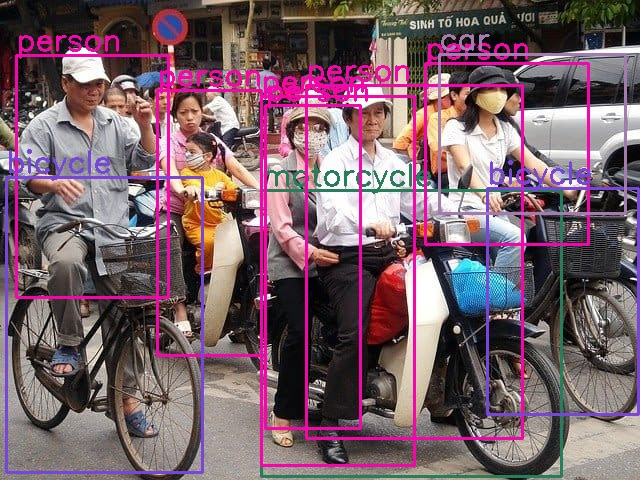
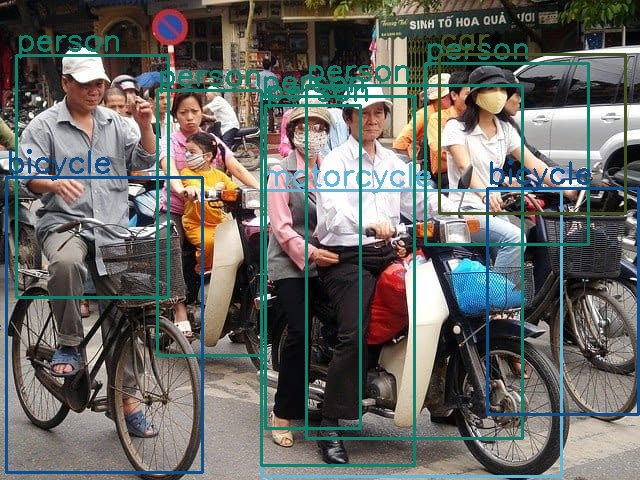
Object detection on video simple tests

Changed region(s): [[0.0, 0.0625, 1.0, 1.0]]

diff --git a/backend/model/object_detection_video.py b/backend/model/object_detection_video.py
@@ -1,0 +1,68 @@
+import cv2
+import time
+import numpy as np
+
+with open ('./MobileNetSSD/object_detection_classes_coco.txt', 'r') as f:
+    class_names = f.read().split('\n')
+
+COLORS = np.random.uniform(0, 255, size=(len(class_names), 3))
+
+model = cv2.dnn.readNet('./MobileNetSSD/frozen_inference_graph.pb', './MobileNetSSD/ssd_mobilenet_v2_coco_2018_03_29.pbtxt.txt', 'TensorFlow')
+
+cap = cv2.VideoCapture(0)
+
+frame_width = int(cap.get(3))
+frame_height = int(cap.get(4))
+
+out = cv2.VideoWriter('video_result.mp4', cv2.VideoWriter_fourcc(*'mp4v'), 30, (frame_width, frame_height))
+
+# detect objects in each frame of the video
+while cap.isOpened():
+   ret, frame = cap.read()
+   if ret:
+       image = frame
+       image_height, image_width, _ = image.shape
+       # create blob from image
+       blob = cv2.dnn.blobFromImage(image=image, size=(300, 300), mean=(104, 117, 123), swapRB=True)
+       # start time to calculate FPS
+       start = time.time()
+       model.setInput(blob)
+       output = model.forward()      
+       # end time after detection
+       end = time.time()
+       # calculate the FPS for current frame detection
+       fps = 1 / (end-start)
+       # loop over each of the detections
+       for detection in output[0, 0, :, :]:
+           # extract the confidence of the detection
+           confidence = detection[2]
+           # draw bounding boxes only if the detection confidence is above...
+           # ... a certain threshold, else skip
+           if confidence > .4:
+               # get the class id
+               class_id = detection[1]
+               # map the class id to the class
+               class_name = class_names[int(class_id)-1]
+               color = COLORS[int(class_id)]
+               # get the bounding box coordinates
+               box_x = detection[3] * image_width
+               box_y = detection[4] * image_height
+               # get the bounding box width and height
+               box_width = detection[5] * image_width
+               box_height = detection[6] * image_height
+               # draw a rectangle around each detected object
+               cv2.rectangle(image, (int(box_x), int(box_y)), (int(box_width), int(box_height)), color, thickness=2)
+               # put the class name text on the detected object
+               cv2.putText(image, class_name, (int(box_x), int(box_y - 5)), cv2.FONT_HERSHEY_SIMPLEX, 1, color, 2)
+               # put the FPS text on top of the frame
+               cv2.putText(image, f"{fps:.2f} FPS", (20, 30), cv2.FONT_HERSHEY_SIMPLEX, 1, (0, 255, 0), 2)
+       
+       cv2.imshow('image', image)
+       out.write(image)
+       if cv2.waitKey(10) & 0xFF == ord('q'):
+           break
+   else:
+       break
+  
+cap.release()
+cv2.destroyAllWindows()
